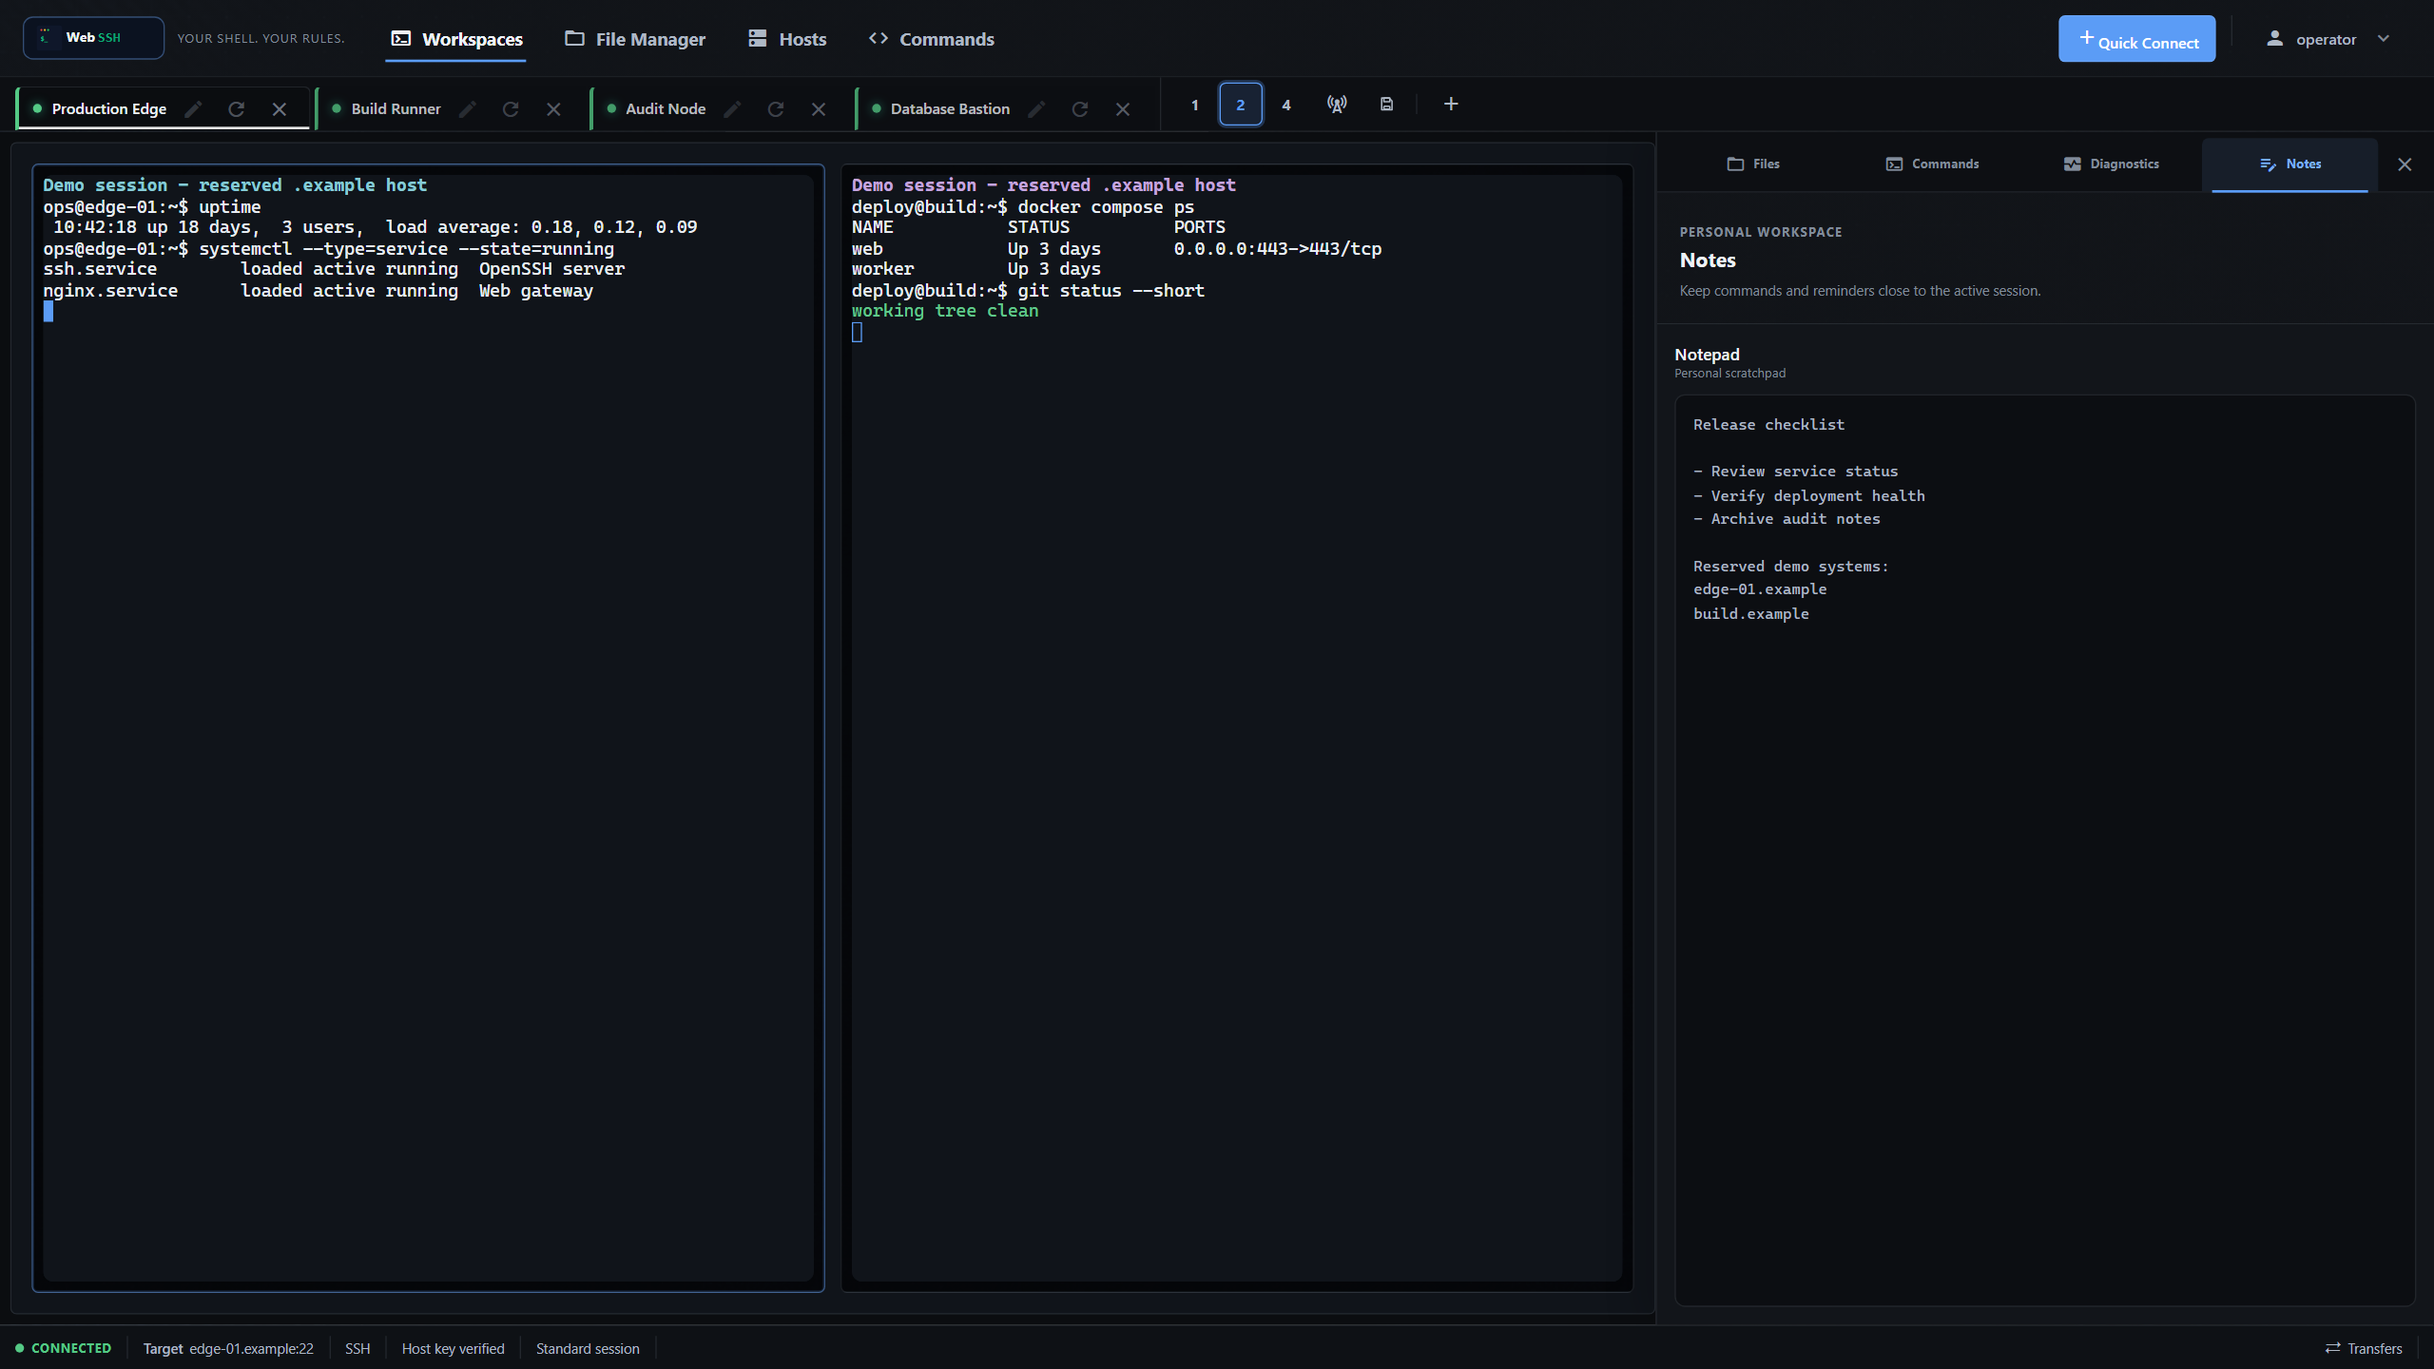
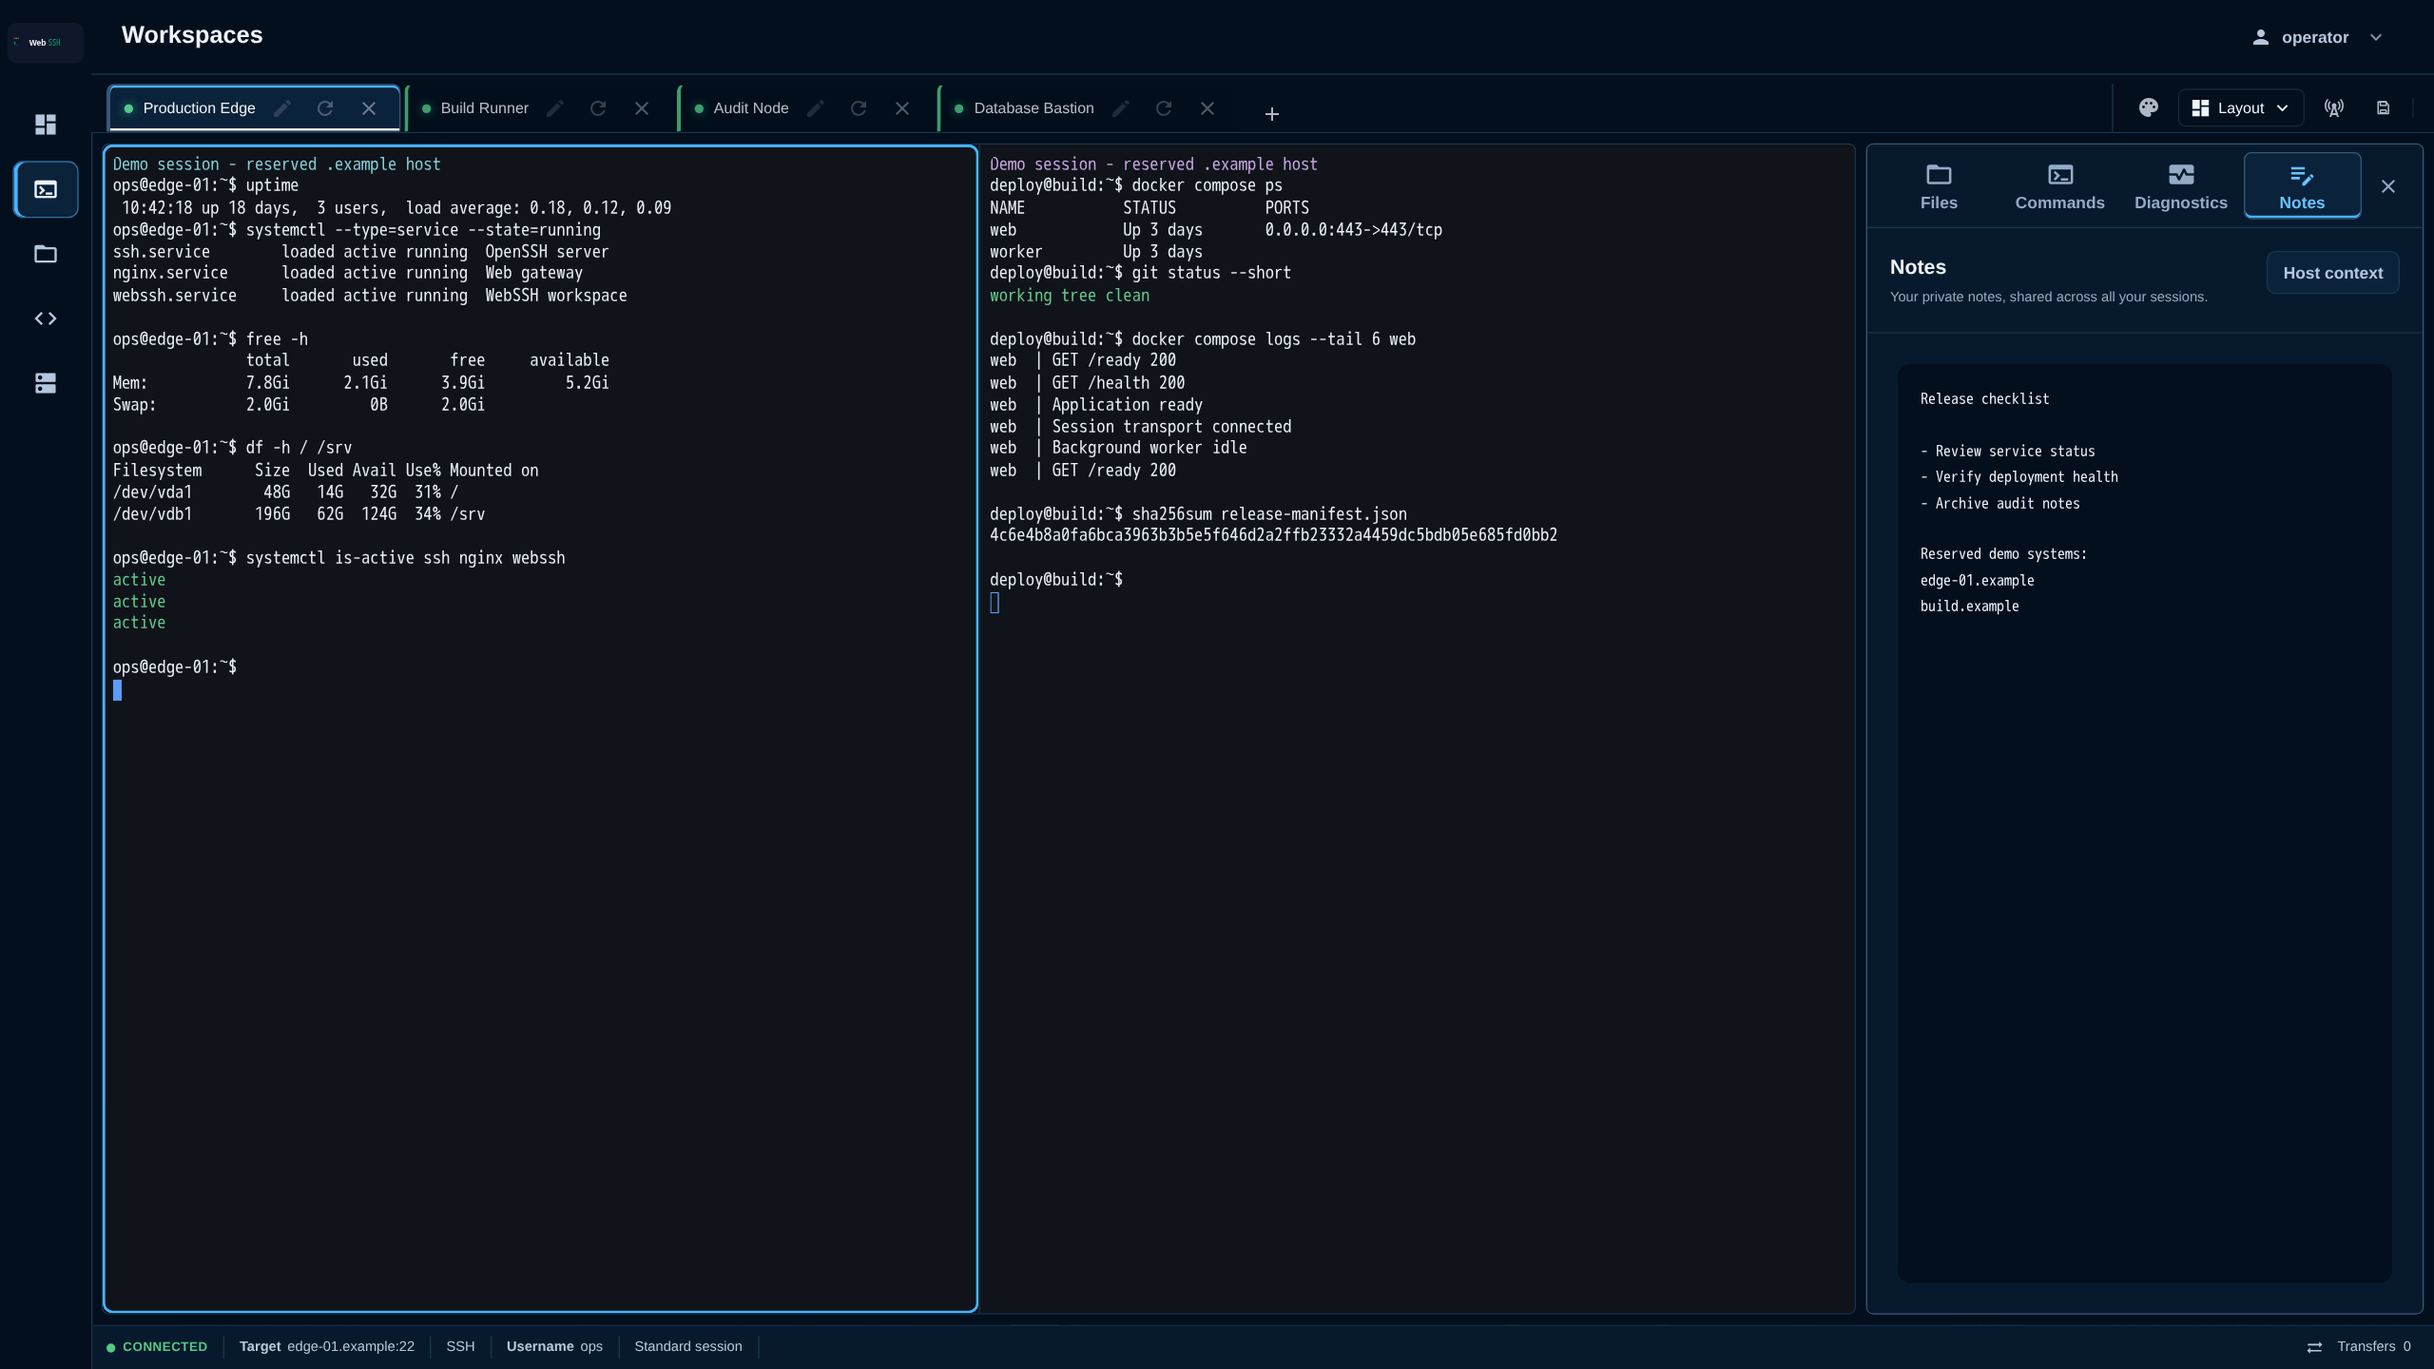
Refresh product screenshots and reproducible capture workflow

diff --git a/tests/e2e/product-captures.spec.js b/tests/e2e/product-captures.spec.js
@@ -319,6 +319,7 @@ async function seedDemoFileManager(page) {
         manager.activePane = 'left';
         manager.closeSourceLauncher();
         manager.renderWorkspaceChrome();
+        manager.buildSourceCatalog = () => [{ items: Object.values(demoPanes).map(pane => pane.source) }];
 
         manager.transferQueue = [
             {
@@ -411,6 +412,24 @@ async function seedDemoWorkspace(page) {
                     'ops@edge-01:~$ systemctl --type=service --state=running',
                     'ssh.service        loaded active running  OpenSSH server',
                     'nginx.service      loaded active running  Web gateway',
+                    'webssh.service     loaded active running  WebSSH workspace',
+                    '',
+                    'ops@edge-01:~$ free -h',
+                    '               total       used       free     available',
+                    'Mem:           7.8Gi      2.1Gi      3.9Gi         5.2Gi',
+                    'Swap:          2.0Gi         0B      2.0Gi',
+                    '',
+                    'ops@edge-01:~$ df -h / /srv',
+                    'Filesystem      Size  Used Avail Use% Mounted on',
+                    '/dev/vda1        48G   14G   32G  31% /',
+                    '/dev/vdb1       196G   62G  124G  34% /srv',
+                    '',
+                    'ops@edge-01:~$ systemctl is-active ssh nginx webssh',
+                    '\u001b[32mactive',
+                    'active',
+                    'active\u001b[0m',
+                    '',
+                    'ops@edge-01:~$ ',
                 ].join('\r\n'),
             },
             {
@@ -427,6 +446,19 @@ async function seedDemoWorkspace(page) {
                     'worker         Up 3 days',
                     'deploy@build:~$ git status --short',
                     '\u001b[32mworking tree clean\u001b[0m',
+                    '',
+                    'deploy@build:~$ docker compose logs --tail 6 web',
+                    'web  | GET /ready 200',
+                    'web  | GET /health 200',
+                    'web  | Application ready',
+                    'web  | Session transport connected',
+                    'web  | Background worker idle',
+                    'web  | GET /ready 200',
+                    '',
+                    'deploy@build:~$ sha256sum release-manifest.json',
[1 lines of base64/hex data omitted]
+                    '',
+                    'deploy@build:~$ ',
                 ].join('\r\n'),
             },
             {
@@ -753,7 +785,7 @@ test('captures six current file preview and editing frames without remote action
         '## Deployment checklist',
         '- Verify service health',
         '- Review application logs',
-        '- Confirm backup completion',
+        '- Confirm encrypted backup completion',
         '- Record release validation',
         '',
         'Status: Ready for handoff',
@@ -814,6 +846,8 @@ test('captures six current file preview and editing frames without remote action
             content,
             encoding: 'utf-8',
             newline: 'lf',
+            revision: 'demo-readme-revision',
+            original_bytes: btoa(content),
         });
     }, initialContent);
     await expect(page.locator('#filePreviewModal')).toHaveClass(/editing/);
@@ -823,6 +857,13 @@ test('captures six current file preview and editing frames without remote action
     await page.locator('#editorContent').fill(updatedContent);
     await expect(page.locator('#editorStatus')).toContainText('Unsaved');
     await captureCssFrame(page, frameDirectory, '04-content-edited.png');
+    await page.locator('#editorSaveBtn').click();
+    await expect(page.locator('#editorReview')).toBeVisible();
+    await expect(page.locator('#editorReviewTarget')).toContainText('edge-01.example:22');
+    await expect(page.locator('#editorBackupBtn')).toBeEnabled();
+    await expect(page.locator('#editorReviewDiff')).toContainText('+Status: Ready for handoff');
+    await captureDesktopStill(page, 'file-edit-review.png', testInfo);
+    await page.locator('#editorBackBtn').click();
 
     await page.evaluate(content => {
         const preview = window.FilePreview;
@@ -918,6 +959,7 @@ test('captures six current Command Sets animation frames without remote actions'
     await expect(page.locator('#commandSetSteps')).toContainText('1. System Uptime');
     await expect(page.locator('#commandSetSteps')).toContainText('2. Service Status');
     await captureCssFrame(page, frameDirectory, '03-baseline-editor.png');
+    await captureDesktopStill(page, 'command-set-builder.png', testInfo);
 
     await page.locator('#commandSetSearchInput').fill('Disk Usage');
     await expect(page.locator('#commandSetLibraryResults')).toContainText('Disk Usage');
@@ -1024,6 +1066,13 @@ test('captures the current Security Center assurance overview', async ({ page },
     await expect(page.locator('#recoveryGenerateBtn')).toBeVisible();
 
     await page.locator('[data-account-section="security-overview"]').click();
+    await expect(page.locator('#githubIdentityStatus')).toContainText('Connected as');
+    await page.evaluate(() => {
+        document.querySelector('.settings-context-card strong').textContent = 'operator';
+        document.querySelector('.settings-context-avatar').textContent = 'O';
+        document.getElementById('githubIdentityStatus').textContent = 'Connected as operations-demo';
+    });
+    expect(await page.locator('body').innerText()).not.toMatch(/e2e[_-]/i);
     await expect(page.locator('body')).not.toContainText('E2E');
     await captureDesktopStill(page, 'security-center.png', testInfo);
 
@@ -1044,6 +1093,21 @@ test.describe('mobile product capture', () => {
         await seedDemoWorkspace(page);
         await focusDemoWorkspace(page);
         await page.evaluate(() => window.workspaceLayoutController.setNotesOpen(false));
+        await page.evaluate(() => TerminalManager.writeOutput('capture-edge', [
+            '\u001b[2J\u001b[HDemo: edge-01.example',
+            'ops@edge-01:~$ uptime -p',
+            'up 18 days, 4 hours',
+            '',
+            'ops@edge-01:~$ systemctl \\',
+            '  is-active ssh nginx',
+            '\u001b[32mactive',
+            'active\u001b[0m',
+            '',
+            'OpenSSH server: ready',
+            'Web gateway: healthy',
+            '',
+            'ops@edge-01:~$ ',
+        ].join('\r\n')));
 
         expect(page.viewportSize()).toEqual(MOBILE_VIEWPORT);
         await expect(page.locator('#sessionTabs')).toContainText('Production Edge');

diff --git a/tests/js/capture-output.test.js b/tests/js/capture-output.test.js
@@ -20,6 +20,9 @@ test('public product captures are the only captures written to assets', () => {
     assert.deepEqual(
         [...PUBLISHED_CAPTURE_ASSETS].sort(),
         [
+            'command-set-builder.png',
+            'commandlibrary.png',
+            'file-edit-review.png',
             'mobile-workspace.png',
             'multi-session.png',
             'security-center.png',

diff --git a/tests/e2e/capture-output.js b/tests/e2e/capture-output.js
@@ -7,6 +7,9 @@ const TRANSIENT_CAPTURE_DIRECTORY = path.join(ROOT, '.test-run.tmp', 'captures')
 
 // Only captures consumed by a public repository surface belong in assets/.
 const PUBLISHED_CAPTURE_ASSETS = new Set([
+    'commandlibrary.png',
+    'command-set-builder.png',
+    'file-edit-review.png',
     'mobile-workspace.png',
     'multi-session.png',
     'security-center.png',

diff --git a/scripts/build-product-gifs.py b/scripts/build-product-gifs.py
@@ -1,0 +1,70 @@
+"""Encode product tours from browser captures (requires the optional Pillow package).
+
+Run after WEBSSH_CAPTURE_ASSETS=1 product-captures.spec.js. No app data or
+network access is used. Each frame is a real capture; transitions only crossfade.
+"""
+
+import argparse
+from pathlib import Path
+
+from PIL import Image
+
+
+ROOT = Path(__file__).resolve().parents[1]
+SIZE = (1280, 720)
+
+
+def encode(paths, destination):
+    stills = []
+    for path in paths:
+        with Image.open(path) as image:
+            if image.width * 9 != image.height * 16:
+                raise ValueError(f"Capture must be 16:9: {path.name}")
+            stills.append(image.convert('RGB').resize(SIZE, Image.Resampling.LANCZOS))
+    frames, durations = [], []
+    for index, still in enumerate(stills):
+        frames.append(still)
+        durations.append(2600)
+        following = stills[(index + 1) % len(stills)]
+        for step in range(1, 6):
+            frames.append(Image.blend(still, following, step / 6))
+            durations.append(60)
+    palette_frames = [image.quantize(colors=128) for image in frames]
+    palette_frames[0].save(
+        destination, save_all=True, append_images=palette_frames[1:],
+        duration=durations, loop=0, disposal=2, optimize=False,
+    )
+    print(f"{destination.name}: {len(frames)} frames, {sum(durations) / 1000:.1f}s")
+
+
+def main():
+    parser = argparse.ArgumentParser(description=__doc__)
+    parser.add_argument('--capture-root', type=Path, default=ROOT)
+    args = parser.parse_args()
+    root = args.capture_root.resolve()
+    assets = root / 'assets'
+    frames = root / '.test-run.tmp'
+    tours = {
+        'webssh-demo.gif': [assets / name for name in (
+            'workspace-overview.png', 'multi-session.png', 'sftp-workspace.png',
+            'commandlibrary.png', 'command-set-builder.png', 'security-center.png',
+        )],
+        'file-editing.gif': [
+            frames / 'file-editing-frames' / '01-dual-pane-overview.png',
+            frames / 'file-editing-frames' / '03-readme-preview.png',
+            frames / 'file-editing-frames' / '04-content-edited.png',
+            assets / 'file-edit-review.png',
+            frames / 'file-editing-frames' / '05-saved-preview.png',
+            frames / 'file-editing-frames' / '06-transfer-complete.png',
+        ],
+        'command-sets.gif': sorted((frames / 'command-sets-frames').glob('*.png')),
+    }
+    for name, sources in tours.items():
+        if len(sources) != 6 or any(not source.is_file() for source in sources):
+            raise ValueError(f"Missing captures for {name}; run product captures first")
+    for name, sources in tours.items():
+        encode(sources, assets / name)
+
+
+if __name__ == '__main__':
+    main()

diff --git a/tests/test_documentation_surface.py b/tests/test_documentation_surface.py
@@ -16,6 +16,9 @@ DIAGRAM_NAMES = {
     "backup-restore-safety",
 }
 DESKTOP_PRODUCT_CAPTURES = {
+    "commandlibrary.png",
+    "command-set-builder.png",
+    "file-edit-review.png",
     "workspace-overview.png",
     "multi-session.png",
     "sftp-workspace.png",
@@ -271,6 +274,9 @@ def test_readme_uses_the_new_product_media():
         "sftp-workspace.png",
         "security-center.png",
         "mobile-workspace.png",
+        "commandlibrary.png",
+        "command-set-builder.png",
+        "file-edit-review.png",
     ):
         assert f"assets/{name}" in readme
 

diff --git a/README.md b/README.md
@@ -166,6 +166,8 @@ run it only on a trusted host and allowlist only trusted shares.
 
 ## Screenshots
 
+Captured from the current interface with synthetic hosts and example data.
+
 ### Focused session workspace
 
 <p align="center">
@@ -182,6 +184,21 @@ The active session stays central while contextual tools remain close at hand.
 
 Split panes make side-by-side observation and coordinated work visible without
 mixing session ownership or terminal state.
+
+### Commands, favorites, and reusable sequences
+
+<p align="center">
+  <img src="assets/commandlibrary.png" alt="WebSSH Command Library with searchable command cards, operating-system filters, and separate Favorites and Command Sets tabs" width="1100">
+</p>
+
+Browse the library, keep frequently used entries in Favorites, and build
+reusable Command Sets. Each has its own label, icon, and color.
+
+<p align="center">
+  <img src="assets/command-set-builder.png" alt="WebSSH Command Set editor with a searchable library, ordered steps, and per-step parameter controls" width="1100">
+</p>
+
+Arrange steps, review parameters, and assign a saved sequence to a connection.
 
 ### File workspace
 
@@ -201,9 +218,23 @@ changes remain visible; jobs stop on the first detected conflict or error.
 See the [chmod manual](https://github.com/bifrost0x/webssh/wiki/SFTP-File-Workspace-and-Transfers#unix-permissions)
 for production-overlay instructions and security boundaries.
 
+### Review file changes before saving
+
+<p align="center">
+  <img src="assets/file-edit-review.png" alt="WebSSH file editor showing the destination, a colored line diff, original-file backup, and explicit save confirmation" width="1100">
+</p>
+
+Check the target and changed lines, optionally download the original, then
+explicitly save the reviewed content.
+
+<details>
+  <summary>Preview the file editing workflow</summary>
+
 <p align="center">
   <img src="assets/file-editing.gif" alt="WebSSH file workflow from dual-pane browsing through preview, editing, save confirmation, and transfer completion" width="1100">
 </p>
+
+</details>
 
 ### Security Center
 

diff --git a/docs/wiki/Development-and-Testing.md b/docs/wiki/Development-and-Testing.md
@@ -190,6 +190,19 @@ and traces remain available without the flag. Captures used by the README or
 product site update their declared files below `assets/`; additional QA captures
 are written to the ignored `.test-run.tmp/captures/` directory.
 
+To refresh only the README stills and tour frames, use the focused capture suite:
+
+```bash
+WEBSSH_CAPTURE_ASSETS=1 npx playwright test tests/e2e/product-captures.spec.js --forbid-only
+# Optional authoring dependency; not needed by WebSSH or normal tests.
+python -m pip install Pillow
+python scripts/build-product-gifs.py
+```
+
+The encoder uses those captures for the three looping product GIFs. Review every
+still and animation before publishing: use synthetic `.example` hosts, keep
+credentials and personal data out of frame, and retain the capture assertions.
+
 Playwright assumptions must be updated when a default frontend state changes.
 Test both the new default and the user's explicit override.
 
